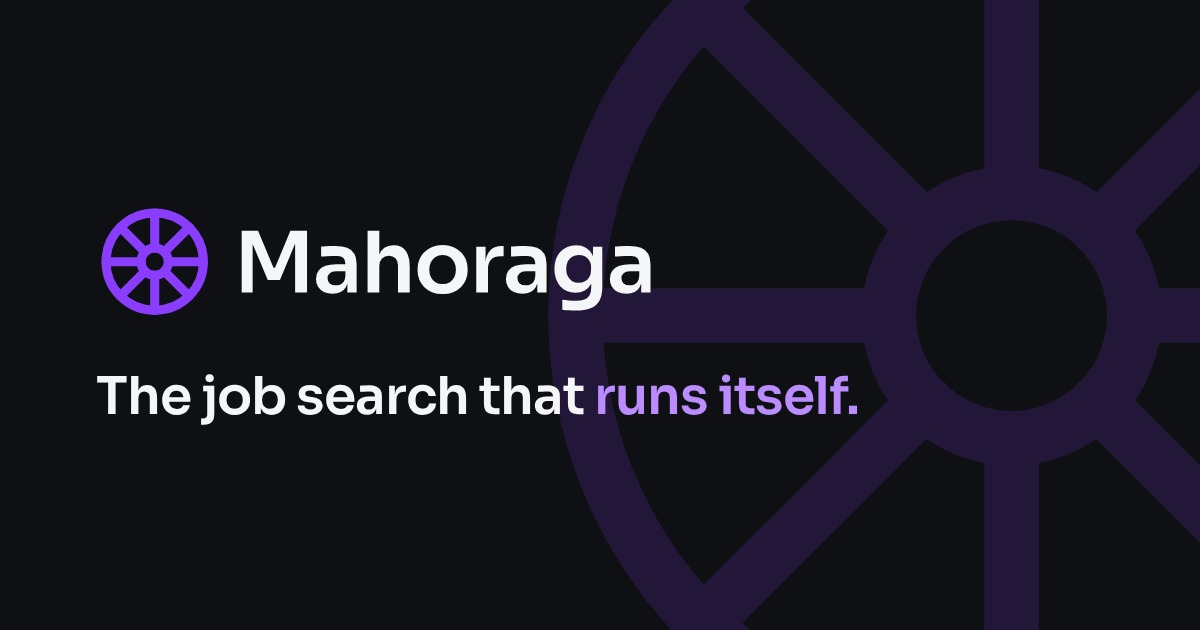
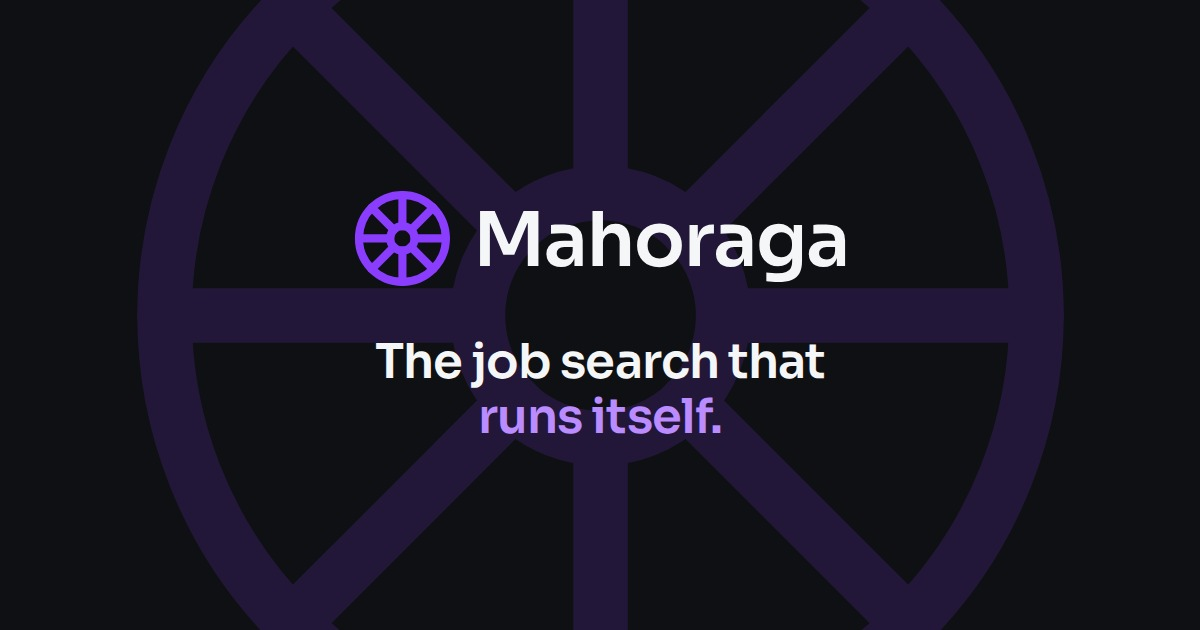
feat(brand): the link preview's picture centred, so a square crop keeps the name and the tagline
The owner: "install uharfbuzz and centre the preview image". The re-audit found that apps which show a link's
picture as a square cut from its middle (WhatsApp, some Slack layouts) kept "ahoraga" and half the tagline.

branding/build.py's banner() takes `centred`: the name and the tagline in the middle, the tagline on two lines
("The job search that" / "runs itself."), the large faint wheel centred behind them. Only the link preview uses
it (og-image, 1200 x 630). The profile banner keeps its left-hand layout, and drew byte for byte the same. Measured
before writing: the name sits 65 px and the tagline 90 px inside the middle 630 x 630 square's edges. Drawn with
the kit's own social step; web/public/og-image.png is its copy (49,920 bytes, from 45,681). uharfbuzz and brotli
are installed in the dev .venv, as branding/README.md says. CHANGELOG.md holds the entry, uncommitted as the owner
asked; .gitignore's new line is the owner's and is left out.

Gates, on this commit:
  lint-imports   2 contracts kept, 0 broken
  ruff           clean
  schema         made on an empty database, 36 collections
  contract       no difference
  build          clean
  pytest         2,117 passed, 7 skipped (five need a Stripe test key, one a Postgres copy, one the reference
                 instance), 0 failed

diff --git a/branding/build.py b/branding/build.py
@@ -262,28 +262,34 @@ def member(out: Out) -> None:
     out.all(HERE / "member/member-seal-on-light", seal(PURPLE), 100, 100, 512)
 
 
-def banner(w: int, h: int, logo_w: int, tag_px: int) -> str:
-    """Graphite, the name and the tagline, and a large faint wheel off the right edge."""
+def banner(w: int, h: int, logo_w: int, tag_px: int, *, centred: bool = False) -> str:
+    """Graphite, the name and the tagline, and a large faint wheel off the right edge. `centred`: the name and
+    the tagline in the middle on two lines, the wheel behind them, so that a square cut from the middle, as
+    some apps show a link's picture, keeps all of it (owner, 2026-11-26: "centre the preview image")."""
     big = h * 1.5
     ghost = doc(wheel(50, 50, 100, PURPLE, 1.2), 0, 0, 100, 100)[0]
+    place = ("align-items:center;text-align:center" if centred
+             else f"padding-left:{round(w * 0.08)}px")
+    behind = f"left:{(w - big) / 2}px" if centred else f"right:{-big * 0.3}px"
     return (
         f'<div style="position:relative;width:{w}px;height:{h}px;overflow:hidden;background:{GRAPHITE};'
-        f'display:flex;flex-direction:column;justify-content:center;padding-left:{round(w * 0.08)}px;'
-        f'box-sizing:border-box">'
-        f'<div style="position:absolute;width:{big}px;right:{-big * 0.3}px;top:{(h - big) / 2}px;'
+        f'display:flex;flex-direction:column;justify-content:center;{place};box-sizing:border-box">'
+        f'<div style="position:absolute;width:{big}px;{behind};top:{(h - big) / 2}px;'
         f'opacity:0.16">{fit(ghost)}</div>'
         f'<div style="width:{logo_w}px;position:relative">{fit(horizontal(PURPLE, PAPER)[0])}</div>'
         f'<p style="position:relative;margin:{round(tag_px * 0.9)}px 0 0;font:600 {tag_px}px/1.15 Sora;'
-        f'letter-spacing:-0.02em;color:{PAPER}">{TAGLINE[0]} '
+        f'letter-spacing:-0.02em;color:{PAPER}">{TAGLINE[0]}{"<br>" if centred else " "}'
         f'<span style="color:{LILAC}">{TAGLINE[1]}</span></p>'
         f"</div>"
     )
 
 
 def social(out: Out) -> None:
-    shapes = {"og-image": (1200, 630, 560, 52), "banner": (1500, 500, 520, 46)}  # w, h, logo, words
-    for name, (w, h, logo_w, tag) in shapes.items():
-        img = out.png(banner(w, h, logo_w, tag), w, h, HERE / f"social/{name}.png", html=True)
+    # w, h, logo, words, centred: the link preview is cut to a square by some apps, the profile banner never.
+    shapes = {"og-image": (1200, 630, 500, 48, True), "banner": (1500, 500, 520, 46, False)}
+    for name, (w, h, logo_w, tag, centred) in shapes.items():
+        drawn = banner(w, h, logo_w, tag, centred=centred)
+        img = out.png(drawn, w, h, HERE / f"social/{name}.png", html=True)
         img.convert("RGB").save(HERE / f"social/{name}.jpg", quality=92)
     # What a link to the site shows (`services/api/page_routes.py` names it in every public page's head).
     (SITE / "og-image.png").write_bytes((HERE / "social/og-image.png").read_bytes())
